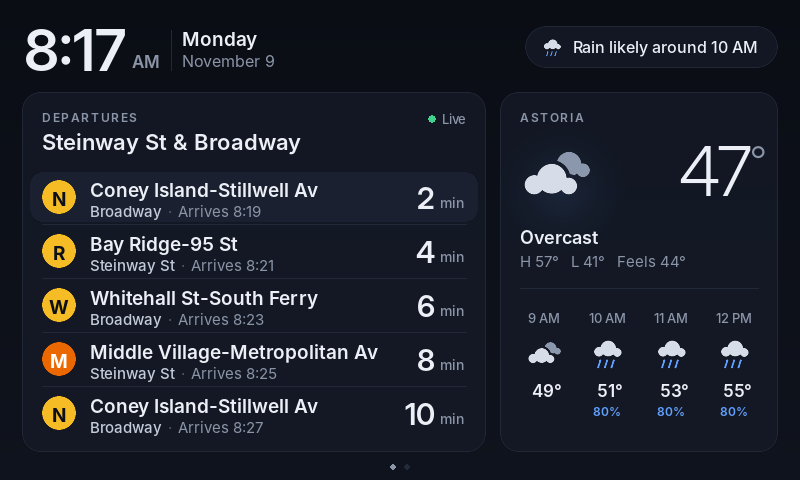
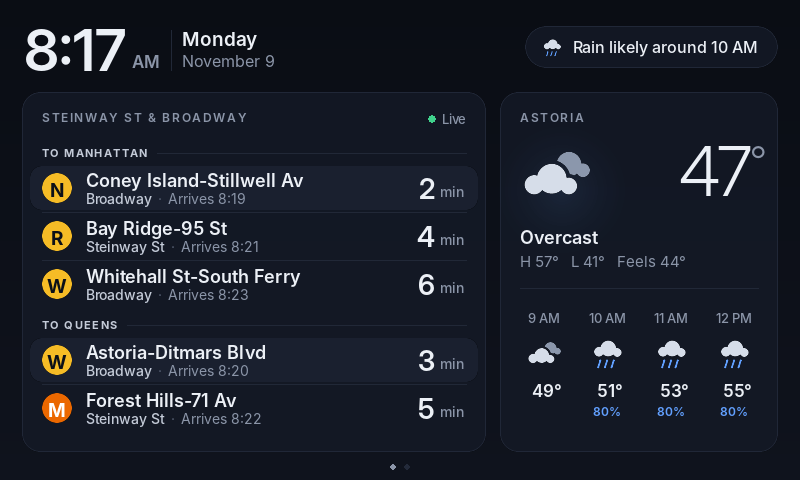
Group departures by direction: To Manhattan / To Queens
- Departures card shows a section per direction, in the order given by
  subway.directions (default: Manhattan-bound first, then Queens-bound)
- Rows are split ~60/40 between sections; rows one side can't use go to
  the other, and an empty side says so instead of disappearing
- Section titles configurable via [subway.direction_labels]
- Station names move into the card's small label to make room
- Each departure now carries its N/S direction from the MTA stop id

Claude-Session: https://claude.ai/code/session_015B7p2Bspa489Q2ESxtVpzq

diff --git a/layout.py b/layout.py
@@ -99,45 +99,80 @@ def _insight(state):
 def _departures(screen, r, state):
     screen.blit(_panel(r.w, r.h, T.RADIUS, T.CARD, T.CARD_BORDER), r)
     ix = r.x + 20
-    screen.blit(_tracked("DEPARTURES", "semibold", 12, T.MUTED, 1.6), (ix, r.y + 18))
-    screen.blit(_fit(state.station, "semibold", 22, T.TEXT, r.w - 200), (ix, r.y + 36))
+    screen.blit(_tracked_fit(state.station.upper(), "semibold", 12, T.MUTED, 1.6, r.w - 140), (ix, r.y + 18))
     _status(screen, r.right - 20, r.y + 20, state.trains_updated, state.trains_error, state.now)
 
-    deps = _upcoming(state.departures or [], state.now, state.walk_minutes)[: state.max_rows]
-    list_top = r.y + 80
-    if not deps:
-        if state.departures is None:
-            msg = "Can't reach the MTA · retrying" if state.trains_error else "Loading departures…"
-        else:
-            msg = "No upcoming trains"
+    top = r.y + 46
+    if state.departures is None:
+        msg = "Can't reach the MTA · retrying" if state.trains_error else "Loading departures…"
         t = _text(msg, "medium", 17, T.MUTED)
-        screen.blit(t, t.get_rect(center=(r.centerx, list_top + (r.bottom - list_top) // 2 - 10)))
+        screen.blit(t, t.get_rect(center=(r.centerx, top + (r.bottom - top) // 2 - 10)))
         return
 
-    row_h = min(56, (r.bottom - list_top - 10) // max(1, state.max_rows))
-    for i, d in enumerate(deps):
-        y = list_top + i * row_h
-        row = pygame.Rect(r.x + 8, y, r.w - 16, row_h - 4)
-        if i == 0:
-            screen.blit(_panel(row.w, row.h, 12, T.CARD_HI), row)
-        elif i > 0:
-            pygame.draw.line(screen, T.DIVIDER, (r.x + 20, y - 2), (r.right - 20, y - 2), 1)
-        _departure_row(screen, row, d, state)
+    deps = _upcoming(state.departures, state.now, state.walk_minutes)
+    directions = state.directions or ["S", "N"]
+    groups = [(d, [x for x in deps if x.direction == d]) for d in directions]
+    if len(groups) == 1:  # one direction: no section headers, roomier rows
+        groups[0] = (None, deps)
+
+    head_h = 28 if groups[0][0] else 0
+    empty_h = 34
+    room = r.bottom - 8 - top - head_h * len(groups) - empty_h * sum(1 for _, g in groups if not g)
+    row_h = 48 if head_h else 56
+    counts = _allocate([len(g) for _, g in groups], min(state.max_rows, room // row_h))
+
+    y = top
+    for (direction, trains), n in zip(groups, counts):
+        if direction:
+            label = state.direction_labels.get(direction, direction)
+            t = _tracked(f"TO {label.upper()}", "bold", 11, T.TEXT_SOFT, 1.4)
+            screen.blit(t, (ix, y + 8))
+            lx = ix + t.get_width() + 10
+            pygame.draw.line(screen, T.DIVIDER, (lx, y + 8 + t.get_height() // 2), (r.right - 20, y + 8 + t.get_height() // 2), 1)
+            y += head_h
+        if not trains:
+            t = _text("No upcoming trains", "regular", 15, T.FAINT)
+            screen.blit(t, (ix, y + 6))
+            y += empty_h
+            continue
+        for i, d in enumerate(trains[:n]):
+            row = pygame.Rect(r.x + 8, y, r.w - 16, row_h - 4)
+            if i == 0:
+                screen.blit(_panel(row.w, row.h, 12, T.CARD_HI), row)
+            else:
+                pygame.draw.line(screen, T.DIVIDER, (r.x + 20, y - 2), (r.right - 20, y - 2), 1)
+            _departure_row(screen, row, d, state, compact=bool(head_h))
+            y += row_h
 
 
-def _departure_row(screen, row, d, state):
+def _allocate(sizes, total):
+    """Split ``total`` rows between groups: the first group gets ~60 %,
+    and rows a group can't use go to the others."""
+    if not sizes:
+        return []
+    if len(sizes) == 1:
+        return [min(sizes[0], total)]
+    first = min(sizes[0], -(-total * 3 // 5))
+    rest = min(sizes[1], total - first)
+    first = min(sizes[0], total - rest)
+    return [first, rest] + [0] * (len(sizes) - 2)
+
+
+def _departure_row(screen, row, d, state, compact=False):
     mins = _minutes_until(d.depart_at, state.now)
     dim = d.cancelled
+    bd = 30 if compact else 34          # badge diameter
+    dest_size, sub_size = (18, 14) if compact else (19, 15)
 
     # line badge
-    badge = _badge(d.line, T.hex_color(d.color), 34, diamond=d.express)
-    screen.blit(badge, (row.x + 12, row.centery - 17))
+    badge = _badge(d.line, T.hex_color(d.color), bd, diamond=d.express)
+    screen.blit(badge, (row.x + 12, row.centery - bd // 2))
 
     # destination + detail line
-    tx = row.x + 60
+    tx = row.x + 12 + bd + 14
     right_w = 92
-    dest = _fit(d.destination, "semibold", 19, T.FAINT if dim else T.TEXT, row.right - right_w - tx)
-    screen.blit(dest, (tx, row.y + 6))
+    dest = _fit(d.destination, "semibold", dest_size, T.FAINT if dim else T.TEXT, row.right - right_w - tx)
+    screen.blit(dest, (tx, row.y + (3 if compact else 6)))
 
     parts = []
     if state.multi_station and d.station:
@@ -154,24 +189,24 @@ def _departure_row(screen, row, d, state):
         when = _clock(d.depart_at, state.clock24)
         parts.append((f"Arrives {when}", T.MUTED))
 
-    x, y = tx, row.y + 30
+    x, y = tx, row.y + (24 if compact else 30)
     for j, (txt, col) in enumerate(parts):
         if j:
-            dot = _text("·", "regular", 15, T.FAINT)
+            dot = _text("·", "regular", sub_size, T.FAINT)
             screen.blit(dot, (x + 6, y))
             x += 6 + dot.get_width() + 6
-        t = _text(txt, "medium" if col != T.MUTED else "regular", 15, col)
+        t = _text(txt, "medium" if col != T.MUTED else "regular", sub_size, col)
         screen.blit(t, (x, y))
         x += t.get_width()
 
     # minutes, right aligned
     rx = row.right - 14
     if mins <= 0 and not dim:
-        t = _text("Now", "display-semibold", 26, T.ACCENT)
+        t = _text("Now", "display-semibold", 24 if compact else 26, T.ACCENT)
         screen.blit(t, (rx - t.get_width(), row.centery - t.get_height() // 2))
     else:
         unit = _text("min", "medium", 14, T.FAINT if dim else T.MUTED)
-        num = _text(str(mins), "display-semibold", 30, T.FAINT if dim else T.TEXT)
+        num = _text(str(mins), "display-semibold", 28 if compact else 30, T.FAINT if dim else T.TEXT)
         ux = rx - unit.get_width()
         nx = ux - 5 - num.get_width()
         ny = row.centery - num.get_height() // 2
@@ -434,6 +469,14 @@ def _fit(s, face, size, color, max_w):
     while s and f.size(s + "…")[0] > max_w:
         s = s[:-1]
     return _text(s.rstrip() + "…", face, size, color)
+
+
+def _tracked_fit(s, face, size, color, spacing, max_w):
+    out = _tracked(s, face, size, color, spacing)
+    while out.get_width() > max_w and len(s) > 2:
+        s = s[:-2].rstrip() + "…"
+        out = _tracked(s, face, size, color, spacing)
+    return out
 
 
 def _tracked(s, face, size, color, spacing):

diff --git a/sources/mock.py b/sources/mock.py
@@ -14,32 +14,40 @@ from .models import Departure
 from .trains import mta_subway
 from .weather import parse as parse_weather
 
-# (route, destination, minutes away, station) — Manhattan-bound from
-# Steinway St (M/R) and Broadway (N/W) in Astoria, the default stations
+# (route, destination, minutes away, station, direction) — Steinway St (M/R)
+# and Broadway (N/W) in Astoria, the default stations
 STEINWAY, BROADWAY = "Steinway St", "Broadway"
+TO_CITY = [
+    ("N", "Coney Island-Stillwell Av", 2, BROADWAY, "S"),
+    ("R", "Bay Ridge-95 St", 4, STEINWAY, "S"),
+    ("W", "Whitehall St-South Ferry", 6, BROADWAY, "S"),
+    ("M", "Middle Village-Metropolitan Av", 8, STEINWAY, "S"),
+    ("N", "Coney Island-Stillwell Av", 11, BROADWAY, "S"),
+]
+TO_QUEENS = [
+    ("W", "Astoria-Ditmars Blvd", 3, BROADWAY, "N"),
+    ("M", "Forest Hills-71 Av", 5, STEINWAY, "N"),
+    ("N", "Astoria-Ditmars Blvd", 9, BROADWAY, "N"),
+    ("R", "Forest Hills-71 Av", 12, STEINWAY, "N"),
+]
 TRAINS = {
-    "normal": [
-        ("N", "Coney Island-Stillwell Av", 2, BROADWAY),
-        ("R", "Bay Ridge-95 St", 4, STEINWAY),
-        ("W", "Whitehall St-South Ferry", 6, BROADWAY),
-        ("M", "Middle Village-Metropolitan Av", 8, STEINWAY),
-        ("N", "Coney Island-Stillwell Av", 10, BROADWAY),
-        ("R", "Bay Ridge-95 St", 13, STEINWAY),
-    ],
+    "normal": TO_CITY + TO_QUEENS,
     "evening": [
-        ("W", "Whitehall St-South Ferry", 0, BROADWAY),
-        ("M", "Middle Village-Metropolitan Av", 3, STEINWAY),
-        ("N", "Coney Island-Stillwell Av", 5, BROADWAY),
-        ("R", "Bay Ridge-95 St", 7, STEINWAY),
-        ("W", "Whitehall St-South Ferry", 11, BROADWAY),
+        ("W", "Whitehall St-South Ferry", 0, BROADWAY, "S"),
+        ("R", "Bay Ridge-95 St", 4, STEINWAY, "S"),
+        ("N", "Coney Island-Stillwell Av", 7, BROADWAY, "S"),
+        ("N", "Astoria-Ditmars Blvd", 1, BROADWAY, "N"),
+        ("R", "Forest Hills-71 Av", 3, STEINWAY, "N"),
+        ("W", "Astoria-Ditmars Blvd", 6, BROADWAY, "N"),
+    ],
+    "night": [
+        ("N", "Coney Island-Stillwell Av", 6, BROADWAY, "S"),
+        ("R", "Bay Ridge-95 St", 9, STEINWAY, "S"),
+        ("E", "Jamaica Center-Parsons/Archer", 4, STEINWAY, "N"),
+        ("N", "Astoria-Ditmars Blvd", 15, BROADWAY, "N"),
     ],
 }
 TRAINS["rain"] = TRAINS["normal"]
-TRAINS["night"] = [
-    ("N", "Coney Island-Stillwell Av", 6, BROADWAY),
-    ("R", "Bay Ridge-95 St", 9, STEINWAY),
-    ("N", "Coney Island-Stillwell Av", 18, BROADWAY),
-]
 TRAINS["snow"] = TRAINS["evening"]
 
 # (base temp °F, daytime code, night code, rain hours from now)
@@ -55,12 +63,12 @@ WEATHER = {
 def trains(now: datetime, scenario: str = "normal") -> list[Departure]:
     routes = mta_subway.data()["routes"]
     out = []
-    for route, dest, mins, station in TRAINS.get(scenario, TRAINS["normal"]):
+    for route, dest, mins, station, direction in TRAINS.get(scenario, TRAINS["normal"]):
         out.append(Departure(
             line=route.rstrip("X") if len(route) == 2 else route, destination=dest,
             depart_at=now + timedelta(minutes=mins, seconds=20),
             color=routes.get(route, {}).get("color"), express=route.endswith("X"),
-            station=station,
+            station=station, direction=direction,
         ))
     return out
 

diff --git a/tests/test_sources.py b/tests/test_sources.py
@@ -71,6 +71,7 @@ def test_mta_subway_parse():
     got = sorted((d.line, d.destination, d.express, round((d.depart_at - now).total_seconds() / 60)) for d in deps)
     assert got == [("A", "Inwood-207 St", False, 4), ("F", "Coney Island-Stillwell Av", True, 9)]
     assert all(d.delay_min is None and d.color for d in deps)
+    assert {d.line: d.direction for d in deps} == {"A": "N", "F": "S"}
     # direction + route filters
     assert [d.line for d in mta_subway.parse(_feed(now), ["A41"], directions=["S"], now=now)] == ["F"]
     assert [d.line for d in mta_subway.parse(_feed(now), ["A41"], routes=["A"], now=now)] == ["A"]
@@ -113,3 +114,13 @@ def test_station_names_resolve_by_proximity():
     jay = (40.6924, -73.9874)
     assert mta_subway.resolve_stations(["Broadway"], jay) == ["G30"]          # Williamsburg G
     assert set(mta_subway.resolve_stations(["Jay St-MetroTech"], jay)) == {"A41", "R29"}  # whole complex
+
+
+def test_rows_split_between_directions():
+    import os
+    os.environ.setdefault("SDL_VIDEODRIVER", "dummy")
+    import layout
+    assert layout._allocate([5, 4], 5) == [3, 2]      # Manhattan-bound gets more
+    assert layout._allocate([1, 4], 5) == [1, 4]      # unused rows go to the other side
+    assert layout._allocate([6, 0], 5) == [5, 0]
+    assert layout._allocate([2], 5) == [2]

diff --git a/config.py b/config.py
@@ -38,7 +38,11 @@ DEFAULTS: dict = {
         # Station names or ids (python3 tools/find_station.py <name>). Names
         # that exist more than once ("Broadway") pick the one nearest the zip.
         "stations": ["Steinway St", "Broadway"],
-        "directions": ["S"],          # "S" = Manhattan-bound here; ["N", "S"] = both ways
+        "directions": ["S", "N"],     # sections, in display order; the first gets more rows
+        "direction_labels": {         # section titles: "To Manhattan" / "To Queens"
+            "S": "Manhattan",         # S = southbound platforms (Manhattan-bound from Astoria)
+            "N": "Queens",            # N = northbound (Astoria-Ditmars, Forest Hills, Jamaica)
+        },
         "routes": [],                 # only these lines, e.g. ["N", "W", "R"]; [] = all
         "walk_minutes": 0,            # hide trains you can't catch: 5, or {"Steinway St" = 6, "Broadway" = 4}
         "title": None,                # departures card title; default: the station names

diff --git a/tools/render.py b/tools/render.py
@@ -44,7 +44,8 @@ SHOTS = [
 def render(scenario, page, hm, out: Path, scale=1, offline=False):
     now = datetime.now().astimezone().replace(hour=hm[0], minute=hm[1], second=0, microsecond=0)
     state = State(
-        now=now, station="Steinway St & Broadway", location="Astoria", multi_station=True, page=page,
+        now=now, station="Steinway St & Broadway", location="Astoria", multi_station=True,
+        direction_labels={"S": "Manhattan", "N": "Queens"}, page=page,
         departures=mock.trains(now, scenario), weather=mock.weather(now, scenario),
         trains_updated=now - timedelta(seconds=20), weather_updated=now - timedelta(minutes=4),
     )

diff --git a/dashboard.py b/dashboard.py
@@ -56,6 +56,8 @@ class State:
     max_rows: int = 5
     walk_minutes: int | dict = 0
     multi_station: bool = False
+    directions: list = field(default_factory=lambda: ["S", "N"])
+    direction_labels: dict = field(default_factory=dict)
     page: int = 0
     departures: list | None = None
     weather: object | None = None
@@ -191,6 +193,8 @@ def main():
         clock24=disp["clock"] == "24h",
         max_rows=sub["max_rows"],
         walk_minutes=sub["walk_minutes"],
+        directions=sub["directions"],
+        direction_labels=sub["direction_labels"],
     )
     if not state.location:
         zip_code = str(cfg["weather"]["zip"])

diff --git a/sources/models.py b/sources/models.py
@@ -17,6 +17,7 @@ class Departure:
     color: str | None = None       # badge colour, "#RRGGBB"
     express: bool = False          # drawn as a diamond badge
     station: str | None = None     # which of your stations it leaves from
+    direction: str | None = None   # "N" or "S" (MTA platform direction)
 
 
 @dataclass

diff --git a/sources/trains/mta_subway.py b/sources/trains/mta_subway.py
@@ -159,5 +159,6 @@ def parse(blob: bytes, stations, directions=None, routes=None, now=None) -> list
                 color=info.get("color"),
                 express=route.endswith("X"),
                 station=station_name(stu.stop_id),
+                direction=stu.stop_id[-1],
             ))
     return out

diff --git a/README.md b/README.md
@@ -32,7 +32,7 @@ minute ticks or new data arrives.
 |---|---|
 | Weather location | zip **11106** (Astoria) |
 | Stations | **Steinway St** (M R) and **Broadway** (N W) |
-| Direction | Manhattan-bound (`"S"`) |
+| Directions | Grouped: **To Manhattan** first, then **To Queens** |
 | Clock / units | 12-hour, °F |
 
 To change anything, copy [`config.example.toml`](config.example.toml) to
@@ -41,7 +41,7 @@ its default. For example:
 
 ```toml
 [subway]
-directions = ["N", "S"]                                # both directions
+directions = ["S"]                                     # Manhattan-bound only
 walk_minutes = { "Steinway St" = 7, "Broadway" = 4 }   # hide trains you can't catch
 ```
 
